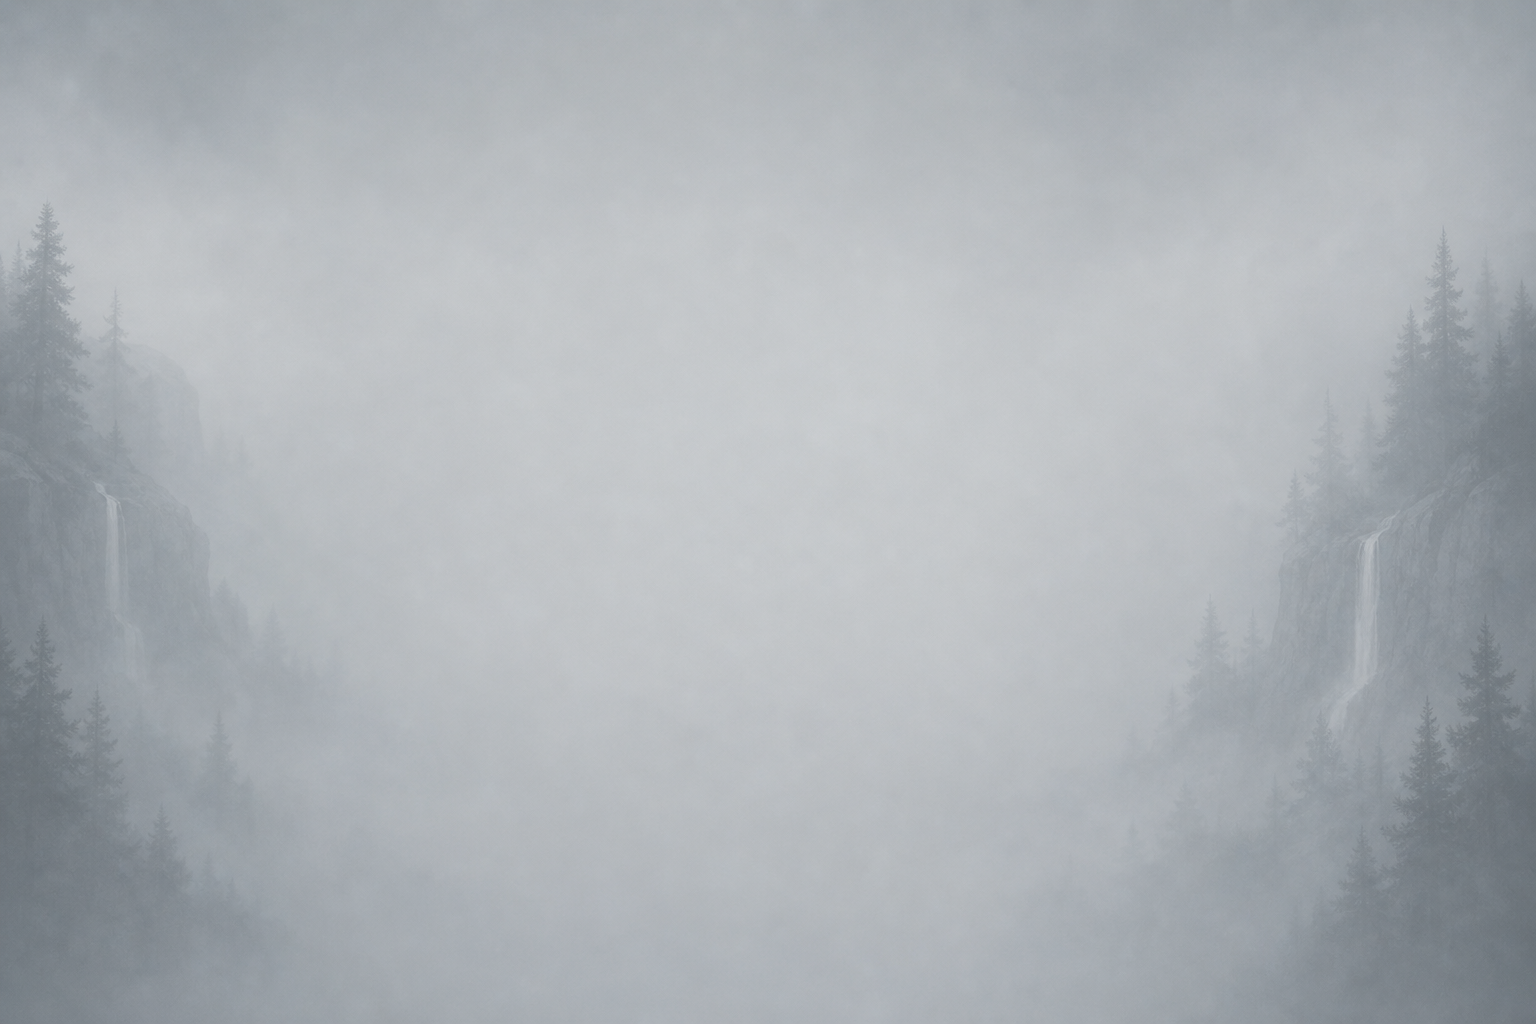
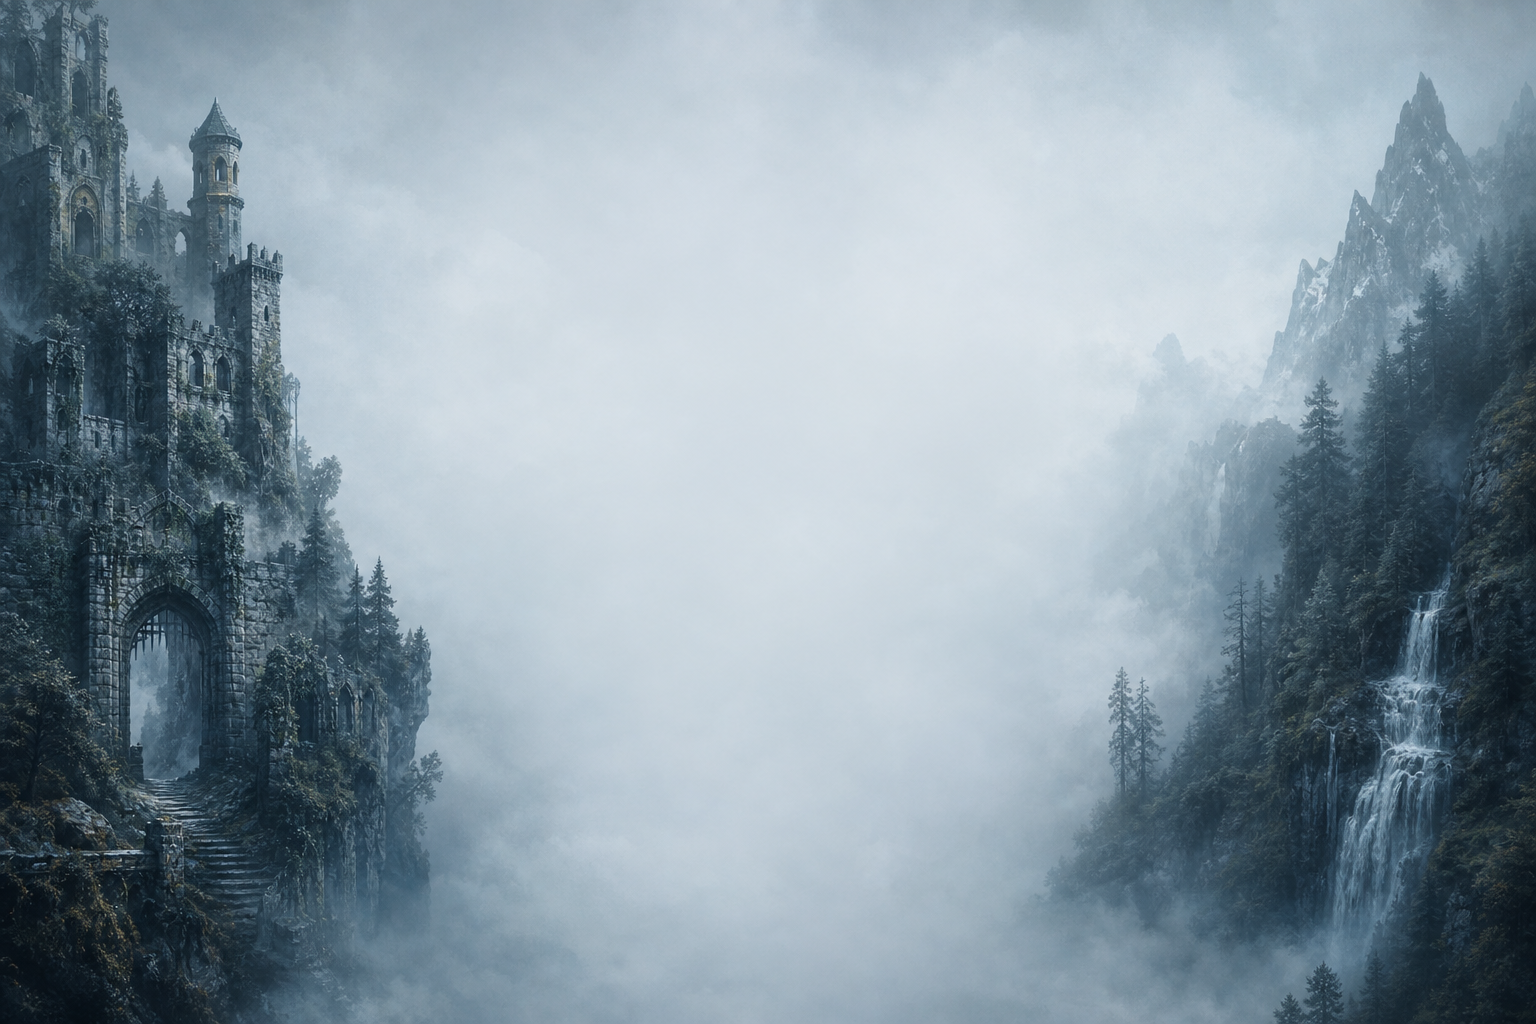
Refresh about and newsletter backgrounds with home-style edge art.
Deploy new bridge and ruin themes, lighten page overlays, and bust CDN cache.

diff --git a/styles.css b/styles.css
@@ -32,7 +32,7 @@
   --font-body: "Lora", Georgia, serif;
   --container: 780px;
   --header-nav-max: 940px;
-  --page-bg-image: url("images/fantasy-bg-home.png");
+  --page-bg-image: url("images/fantasy-bg-home.png?v=2");
   --page-bg-size: cover;
   --page-bg-position: center top;
   --page-bg-gray-wash: linear-gradient(rgba(0, 0, 0, 0), rgba(0, 0, 0, 0));
@@ -85,31 +85,13 @@ body.admin-page {
 }
 
 body.page-about {
-  --page-bg-image: url("images/fantasy-bg-about.png");
+  --page-bg-image: url("images/fantasy-bg-about.png?v=3");
   --page-bg-position: center top;
-  --page-bg-gray-wash: linear-gradient(
-    180deg,
-    rgba(145, 158, 175, 0.58) 0%,
-    rgba(105, 118, 136, 0.5) 38%,
-    rgba(11, 21, 40, 0.72) 100%
-  );
-  --page-bg-center-opacity: 0.94;
-  --page-bg-bottom-opacity: 0.88;
-  --page-bg-edge-opacity: 0.16;
 }
 
 body.page-newsletter {
-  --page-bg-image: url("images/fantasy-bg-newsletter.png");
+  --page-bg-image: url("images/fantasy-bg-newsletter.png?v=3");
   --page-bg-position: center top;
-  --page-bg-gray-wash: linear-gradient(
-    180deg,
-    rgba(145, 158, 175, 0.58) 0%,
-    rgba(105, 118, 136, 0.5) 38%,
-    rgba(11, 21, 40, 0.72) 100%
-  );
-  --page-bg-center-opacity: 0.94;
-  --page-bg-bottom-opacity: 0.88;
-  --page-bg-edge-opacity: 0.16;
 }
 
 :focus-visible {

diff --git a/newsletter.html b/newsletter.html
@@ -9,7 +9,7 @@
   <link rel="preconnect" href="https://fonts.googleapis.com">
   <link rel="preconnect" href="https://fonts.gstatic.com" crossorigin>
   <link href="https://fonts.googleapis.com/css2?family=Cormorant+Garamond:ital,wght@0,500;0,600;1,500&family=Fraunces:ital,opsz,wght@0,9..144,500;0,9..144,600;1,9..144,400&family=Lora:ital,wght@0,400;0,600;1,400&display=swap" rel="stylesheet">
-  <link rel="stylesheet" href="styles.css">
+  <link rel="stylesheet" href="styles.css?v=3">
 </head>
 <body class="page-newsletter">
   <div class="page-stars" aria-hidden="true"></div>

diff --git a/about.html b/about.html
@@ -9,7 +9,7 @@
   <link rel="preconnect" href="https://fonts.googleapis.com">
   <link rel="preconnect" href="https://fonts.gstatic.com" crossorigin>
   <link href="https://fonts.googleapis.com/css2?family=Cormorant+Garamond:ital,wght@0,500;0,600;1,500&family=Fraunces:ital,opsz,wght@0,9..144,500;0,9..144,600;1,9..144,400&family=Lora:ital,wght@0,400;0,600;1,400&display=swap" rel="stylesheet">
-  <link rel="stylesheet" href="styles.css">
+  <link rel="stylesheet" href="styles.css?v=3">
 </head>
 <body class="page-about">
   <div class="page-stars" aria-hidden="true"></div>

diff --git a/index.html b/index.html
@@ -9,7 +9,7 @@
   <link rel="preconnect" href="https://fonts.googleapis.com">
   <link rel="preconnect" href="https://fonts.gstatic.com" crossorigin>
   <link href="https://fonts.googleapis.com/css2?family=Cormorant+Garamond:ital,wght@0,500;0,600;1,500&family=Fraunces:ital,opsz,wght@0,9..144,500;0,9..144,600;1,9..144,400&family=Lora:ital,wght@0,400;0,600;1,400&display=swap" rel="stylesheet">
-  <link rel="stylesheet" href="styles.css">
+  <link rel="stylesheet" href="styles.css?v=3">
 </head>
 <body class="page-home">
   <div class="page-stars" aria-hidden="true"></div>

diff --git a/admin.html b/admin.html
@@ -9,7 +9,7 @@
   <link rel="preconnect" href="https://fonts.googleapis.com">
   <link rel="preconnect" href="https://fonts.gstatic.com" crossorigin>
   <link href="https://fonts.googleapis.com/css2?family=Lora:wght@400;600&display=swap" rel="stylesheet">
-  <link rel="stylesheet" href="styles.css">
+  <link rel="stylesheet" href="styles.css?v=3">
   <link rel="stylesheet" href="admin.css">
 </head>
 <body class="admin-page">
